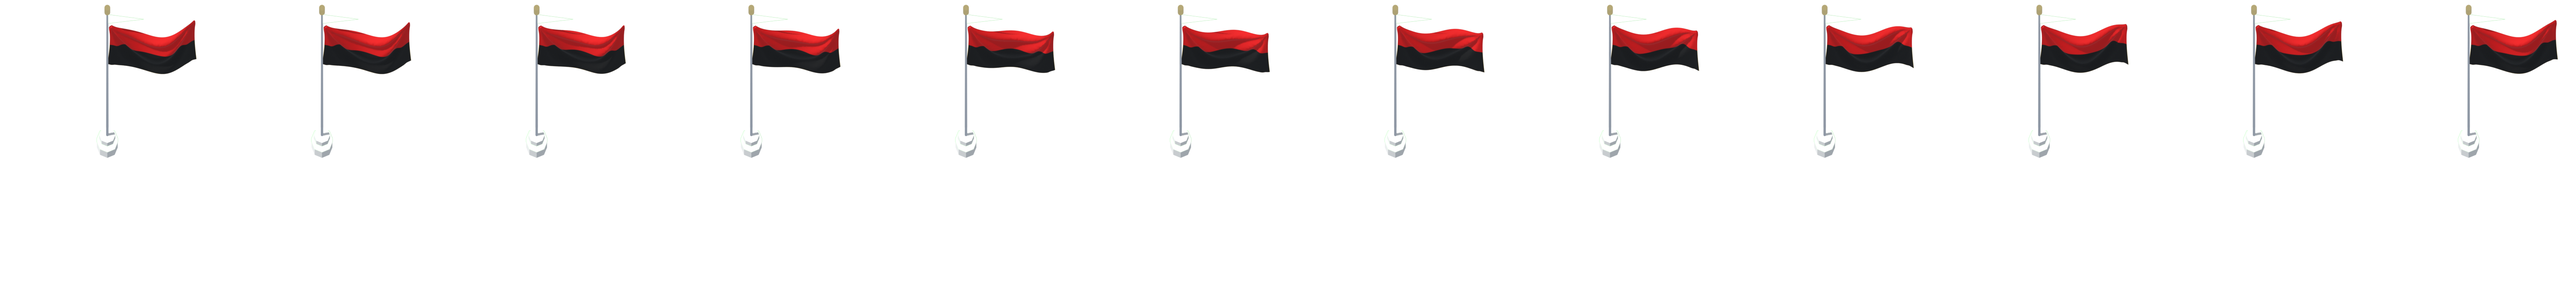
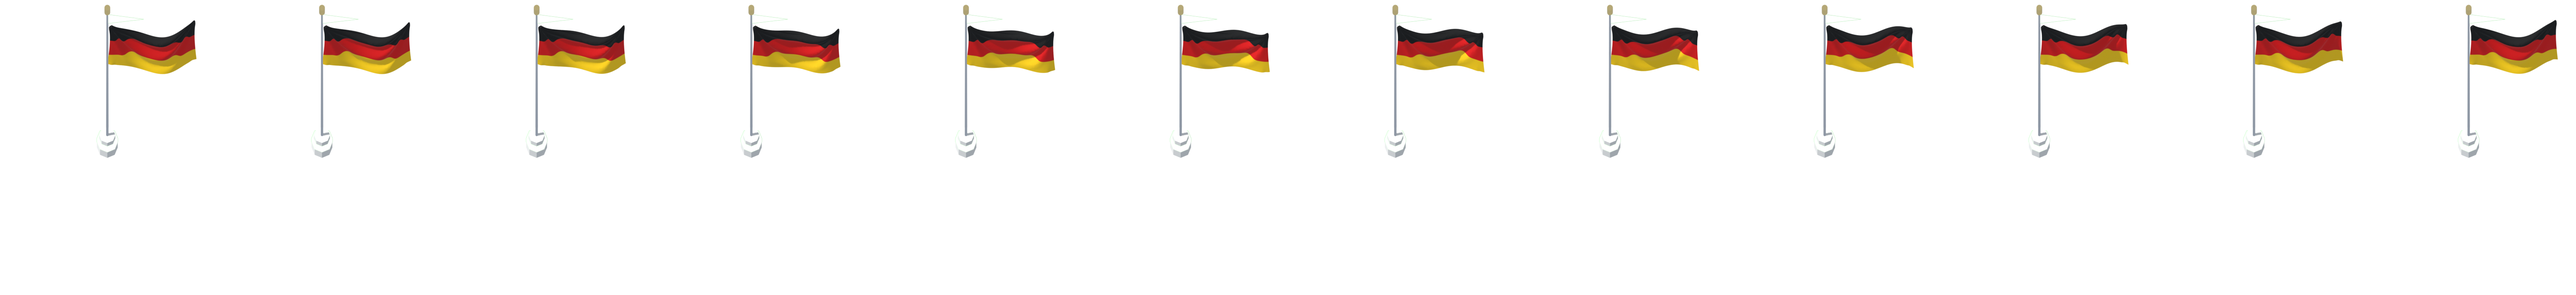
Landmark flags: cloth UVs from its shape, so every flag shows upright and whole
The model's own UV islands flipped and cropped the cloth (Egypt read as Poland). The cloth now
gets fresh UVs from its geometry and the material uses the flag image directly; all nations
re-rendered.

diff --git a/artsrc/landmark-flag/render_flag.py b/artsrc/landmark-flag/render_flag.py
@@ -111,6 +111,14 @@ def load_cloth():
     s = CLOTH_W / w
     me.transform(Matrix.Translation((0, 0, CLOTH_TOP)) @ Matrix.Scale(s, 4)
                  @ Matrix.Translation((-min(xs), -(max(ys) + min(ys)) / 2, -max(zs))))
+    # Fresh UVs from the shape (the model's own UV islands are upside down and cropped for other flags): u along the
+    # cloth from the pole, v up; front and back show the same picture
+    zs = [v.co.z for v in me.vertices]
+    z0, z1 = min(zs), max(zs)
+    uvl = me.uv_layers.active or me.uv_layers.new(name="UVMap")
+    for loop in me.loops:
+        co = me.vertices[loop.vertex_index].co
+        uvl.data[loop.index].uv = (min(1.0, max(0.0, co.x / CLOTH_W)), (co.z - z0) / max(1e-6, z1 - z0))
     ob = bpy.data.objects.new("Cloth", me)
     bpy.context.collection.objects.link(ob)
     rest = [v.co.copy() for v in me.vertices]
@@ -236,7 +244,7 @@ def main():
             key = f"Cloth-{n}"
             m = bpy.data.materials.get(key)
             if not m:
-                m = mat(key, (1, 1, 1), 0.8, image=cloth_texture(cloth_mesh, os.path.join(CLOTHS, n + ".png")))
+                m = mat(key, (1, 1, 1), 0.8, image=bpy.data.images.load(os.path.join(CLOTHS, n + ".png")))
             if cloth_mesh.materials:
                 cloth_mesh.materials[0] = m
             else:
